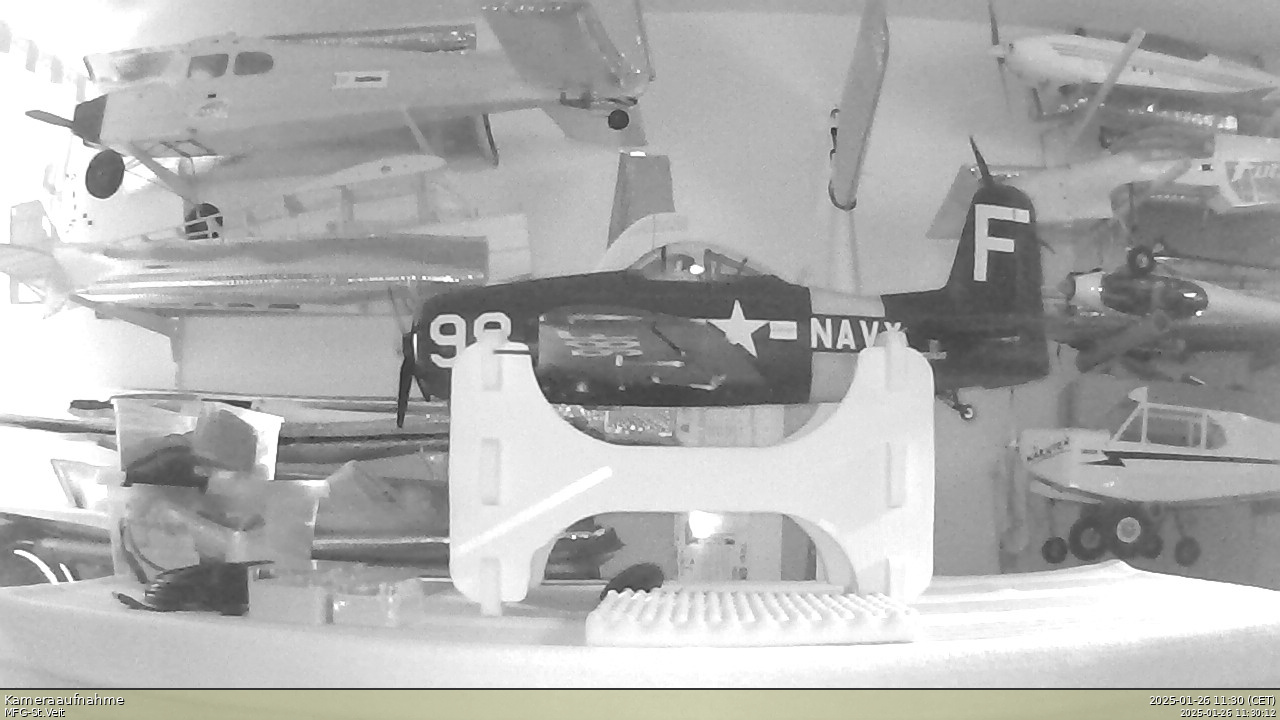
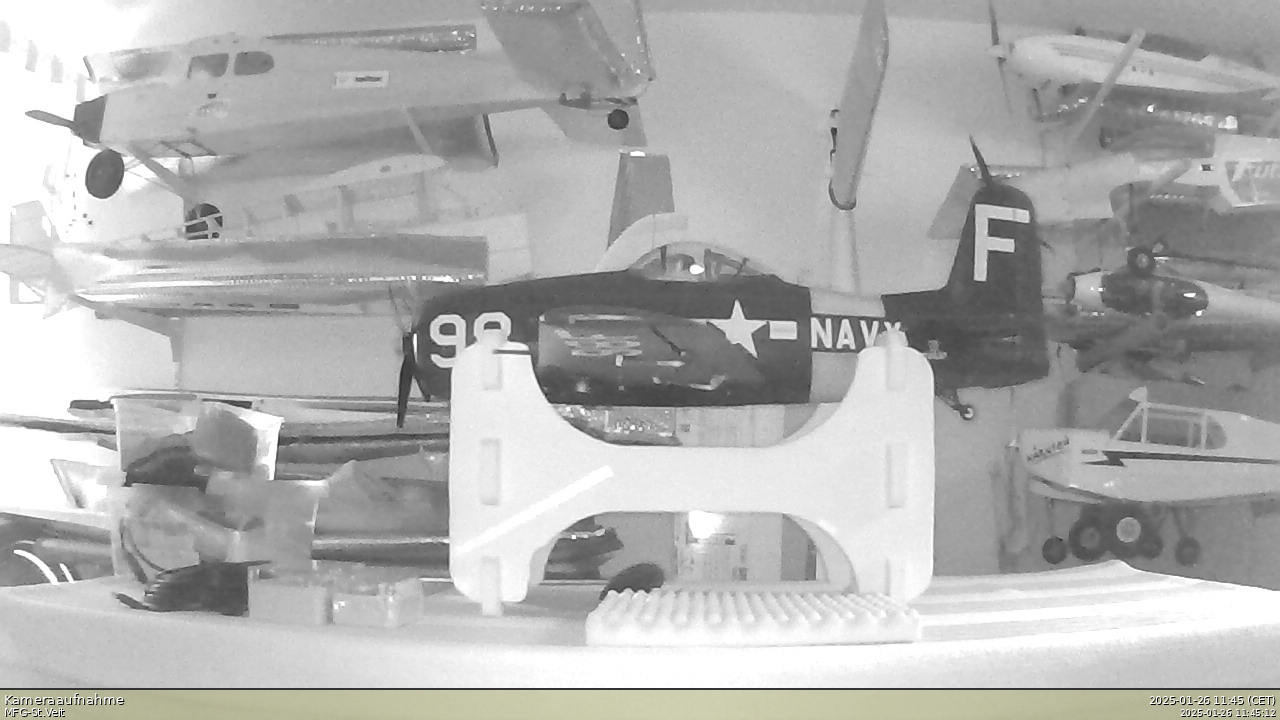
Automatischer Upload: 2025-01-26 11:45:14

Changed region(s): [[0.8125, 0.7944, 0.9062, 0.825]]

diff --git a/index.html b/index.html
@@ -126,7 +126,7 @@
     </div>
 
     <div class="footer">
-        <p>MFG-St.Veit/Glan - aktualisiert am 2025-01-26 11:30:14
+        <p>MFG-St.Veit/Glan - aktualisiert am 2025-01-26 11:45:14
     </div>
 </body>
 </html>
